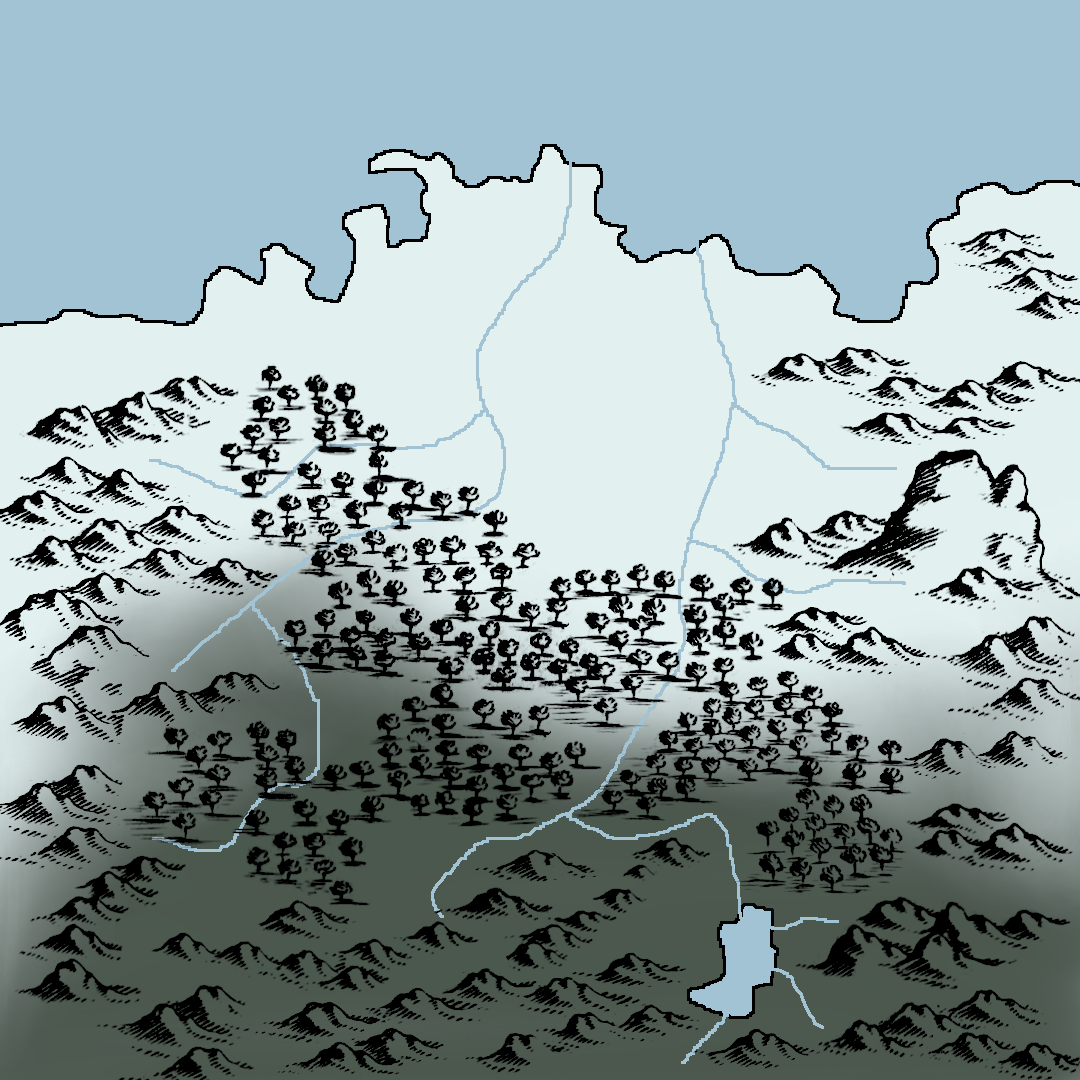
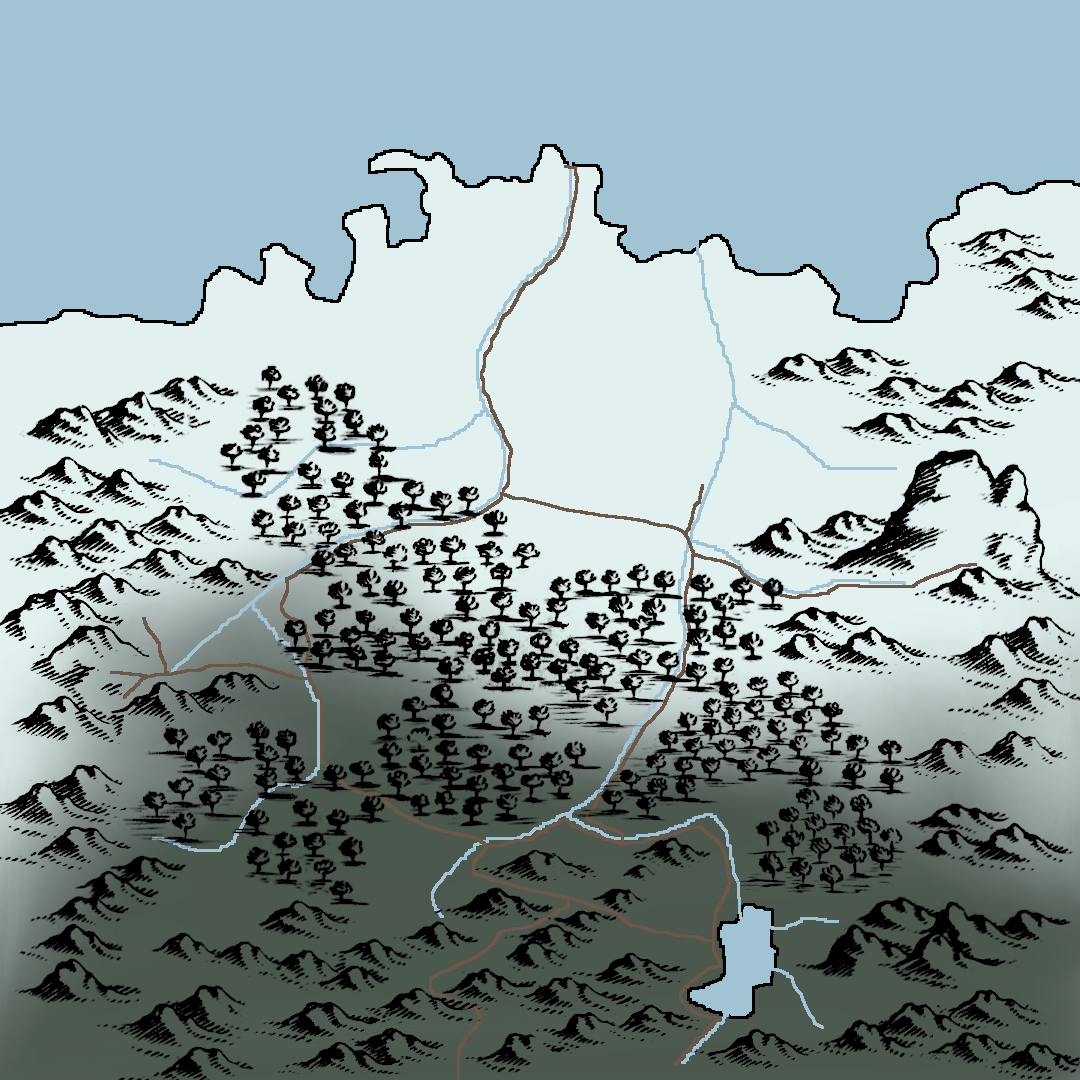
Added roads, rumors for Jordel's Hold

diff --git a/Locations/Towns & Cities/Jordel's Hold.md b/Locations/Towns & Cities/Jordel's Hold.md
@@ -11,3 +11,14 @@ Jordel's Hold is a farming village named after [[Fort Jordel]], an abandoned cas
 [[March Lord Varen]] plans to reclaim the hold and use it to defend roadways to [[Port Henefel]]. [[Shar-Anel]] needs travel to and from Henefel so they can spread their influence south.
 
 After the dark, Jordel's Hold collapsed into chaos. A few villagers have holed up in the keep, but were unable to make it more than a few rooms in.
+# Jordel's Hold Rumors
+| 1d8 | Rumor |
+| ---- | ---- |
+| 1 | A mysterious stone circle was seen 2 days northwest of the town. |
+| 2 | Rabid animals are believed to be in the fort. |
+| 3 | A yeti was sighted a day west of town. |
+| 4 | A dragon is believed to nest somewhere east of town. |
+| 5 | A farm south of town at the intersection of the rivers is believed to have a full grain silo. |
+| 6 | A large gem was seen in a barrow at the base of the mountains to the east. |
+| 7 | The former town leader wants to clear out the fort and move the town into the fort. |
+| 8 | Bandits are rumored to be planning an attack on the town so they can control the fort. |

diff --git a/Map.md b/Map.md
@@ -13,4 +13,9 @@ defaultZoom: 7.5
 zoomDelta: 0.5
 ```
 
-Map Distance Conversion: 1 mile on map = 166 miles = 7 days of travel
+# Map Distance Conversion: 
+| Map | Actual | Travel |
+| ---- | ---- | ---- |
+| 1 mi | 166 mi | 7 days |
+| 0.5 mi | 83 mi | 3.5 days |
+| 0.1 mi | 17 mi | 0.7 days |
